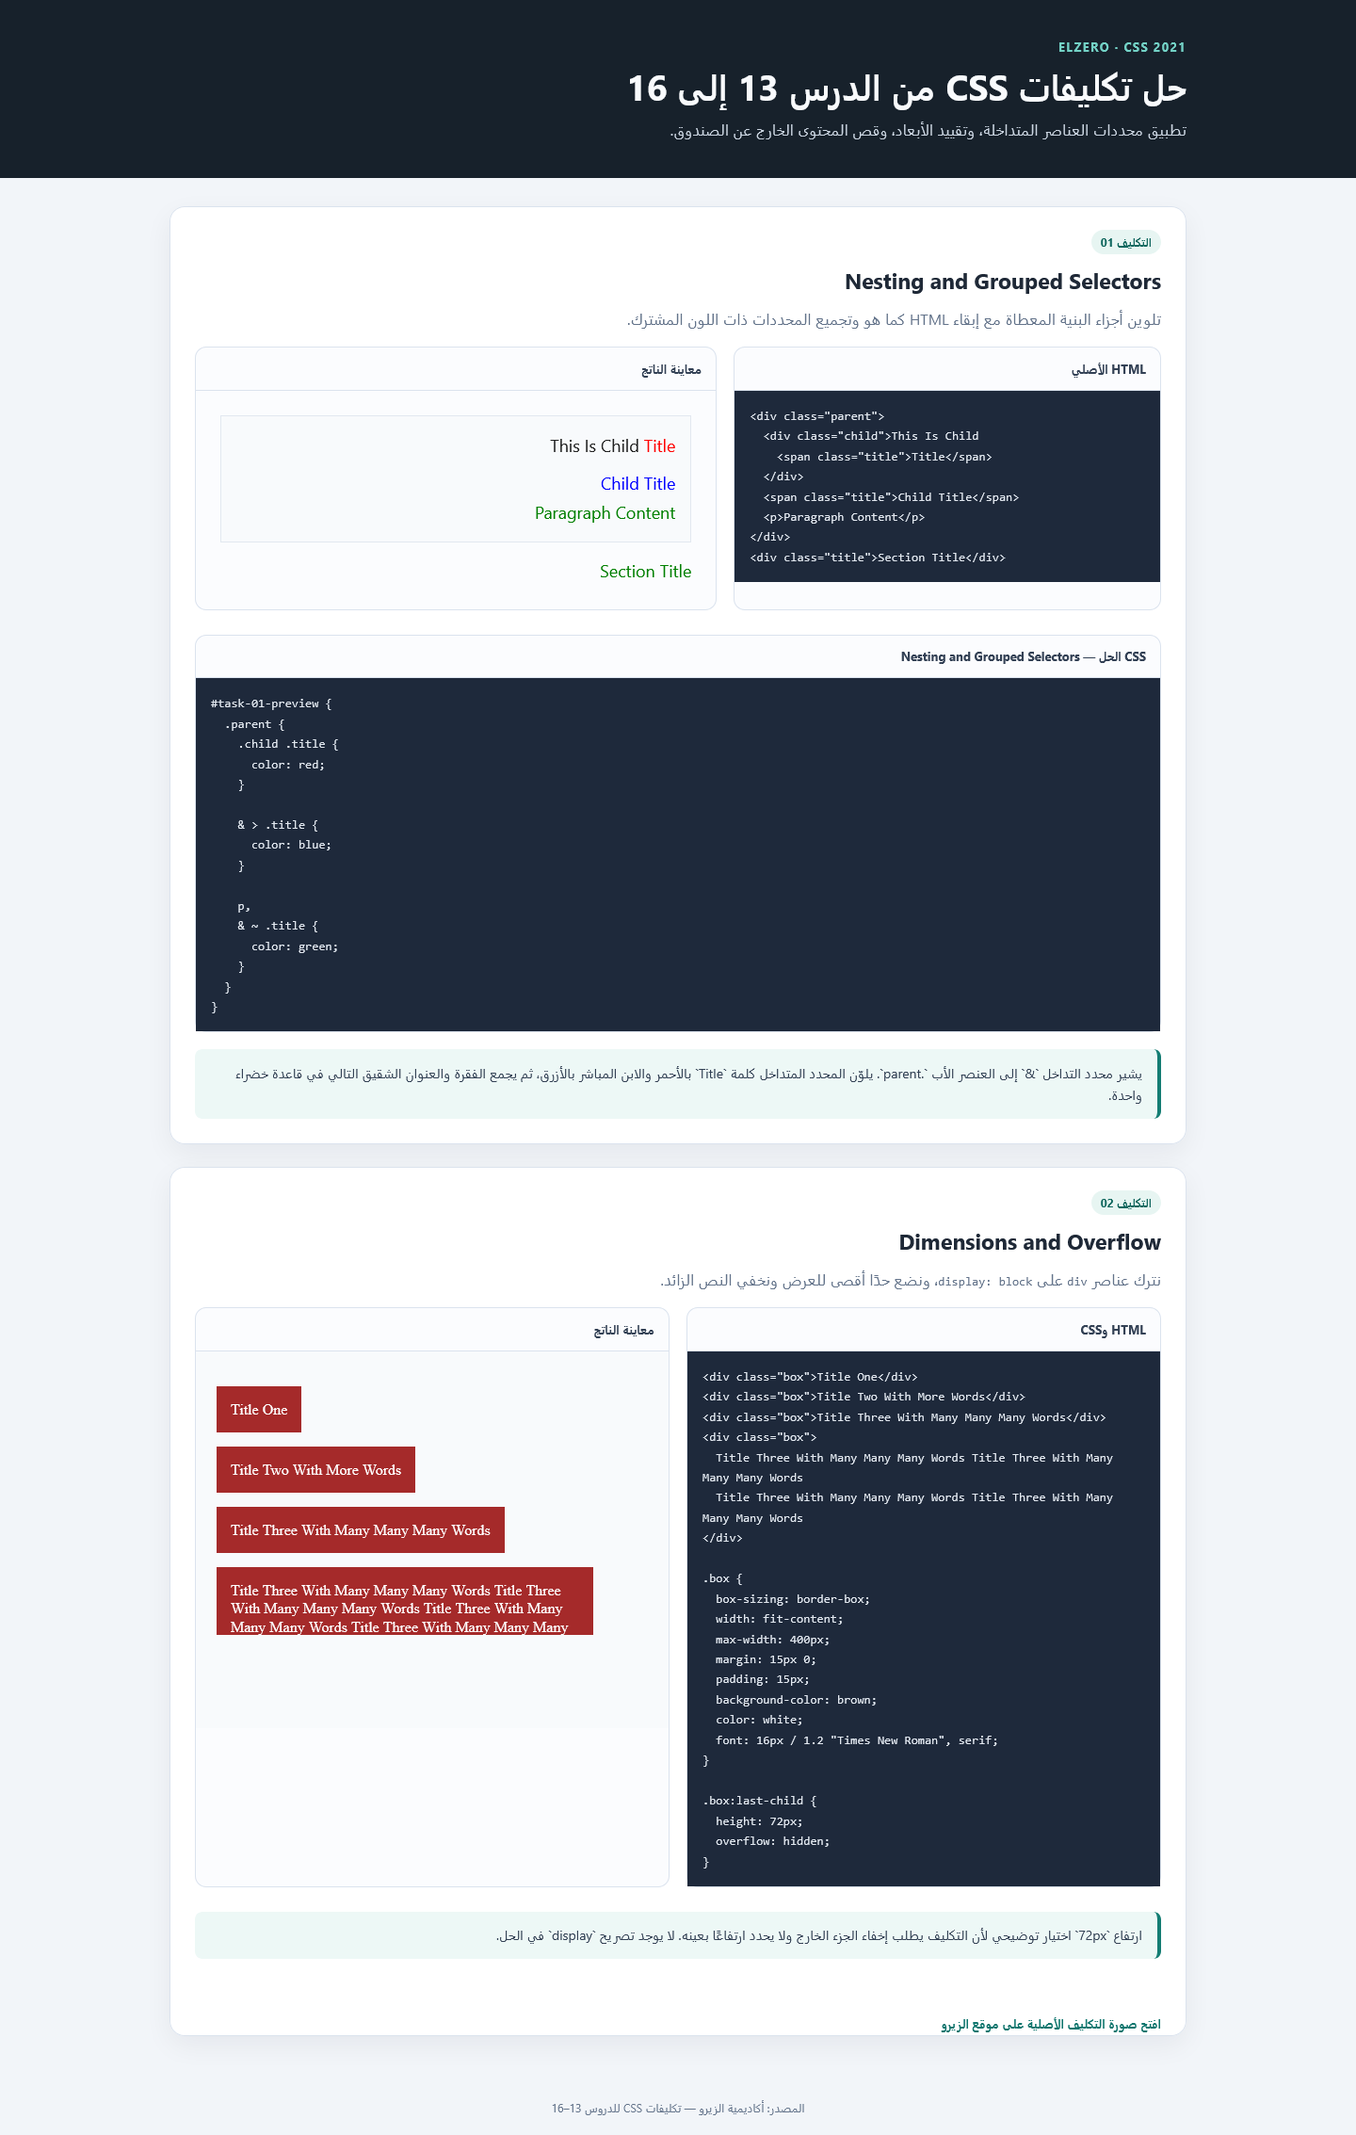
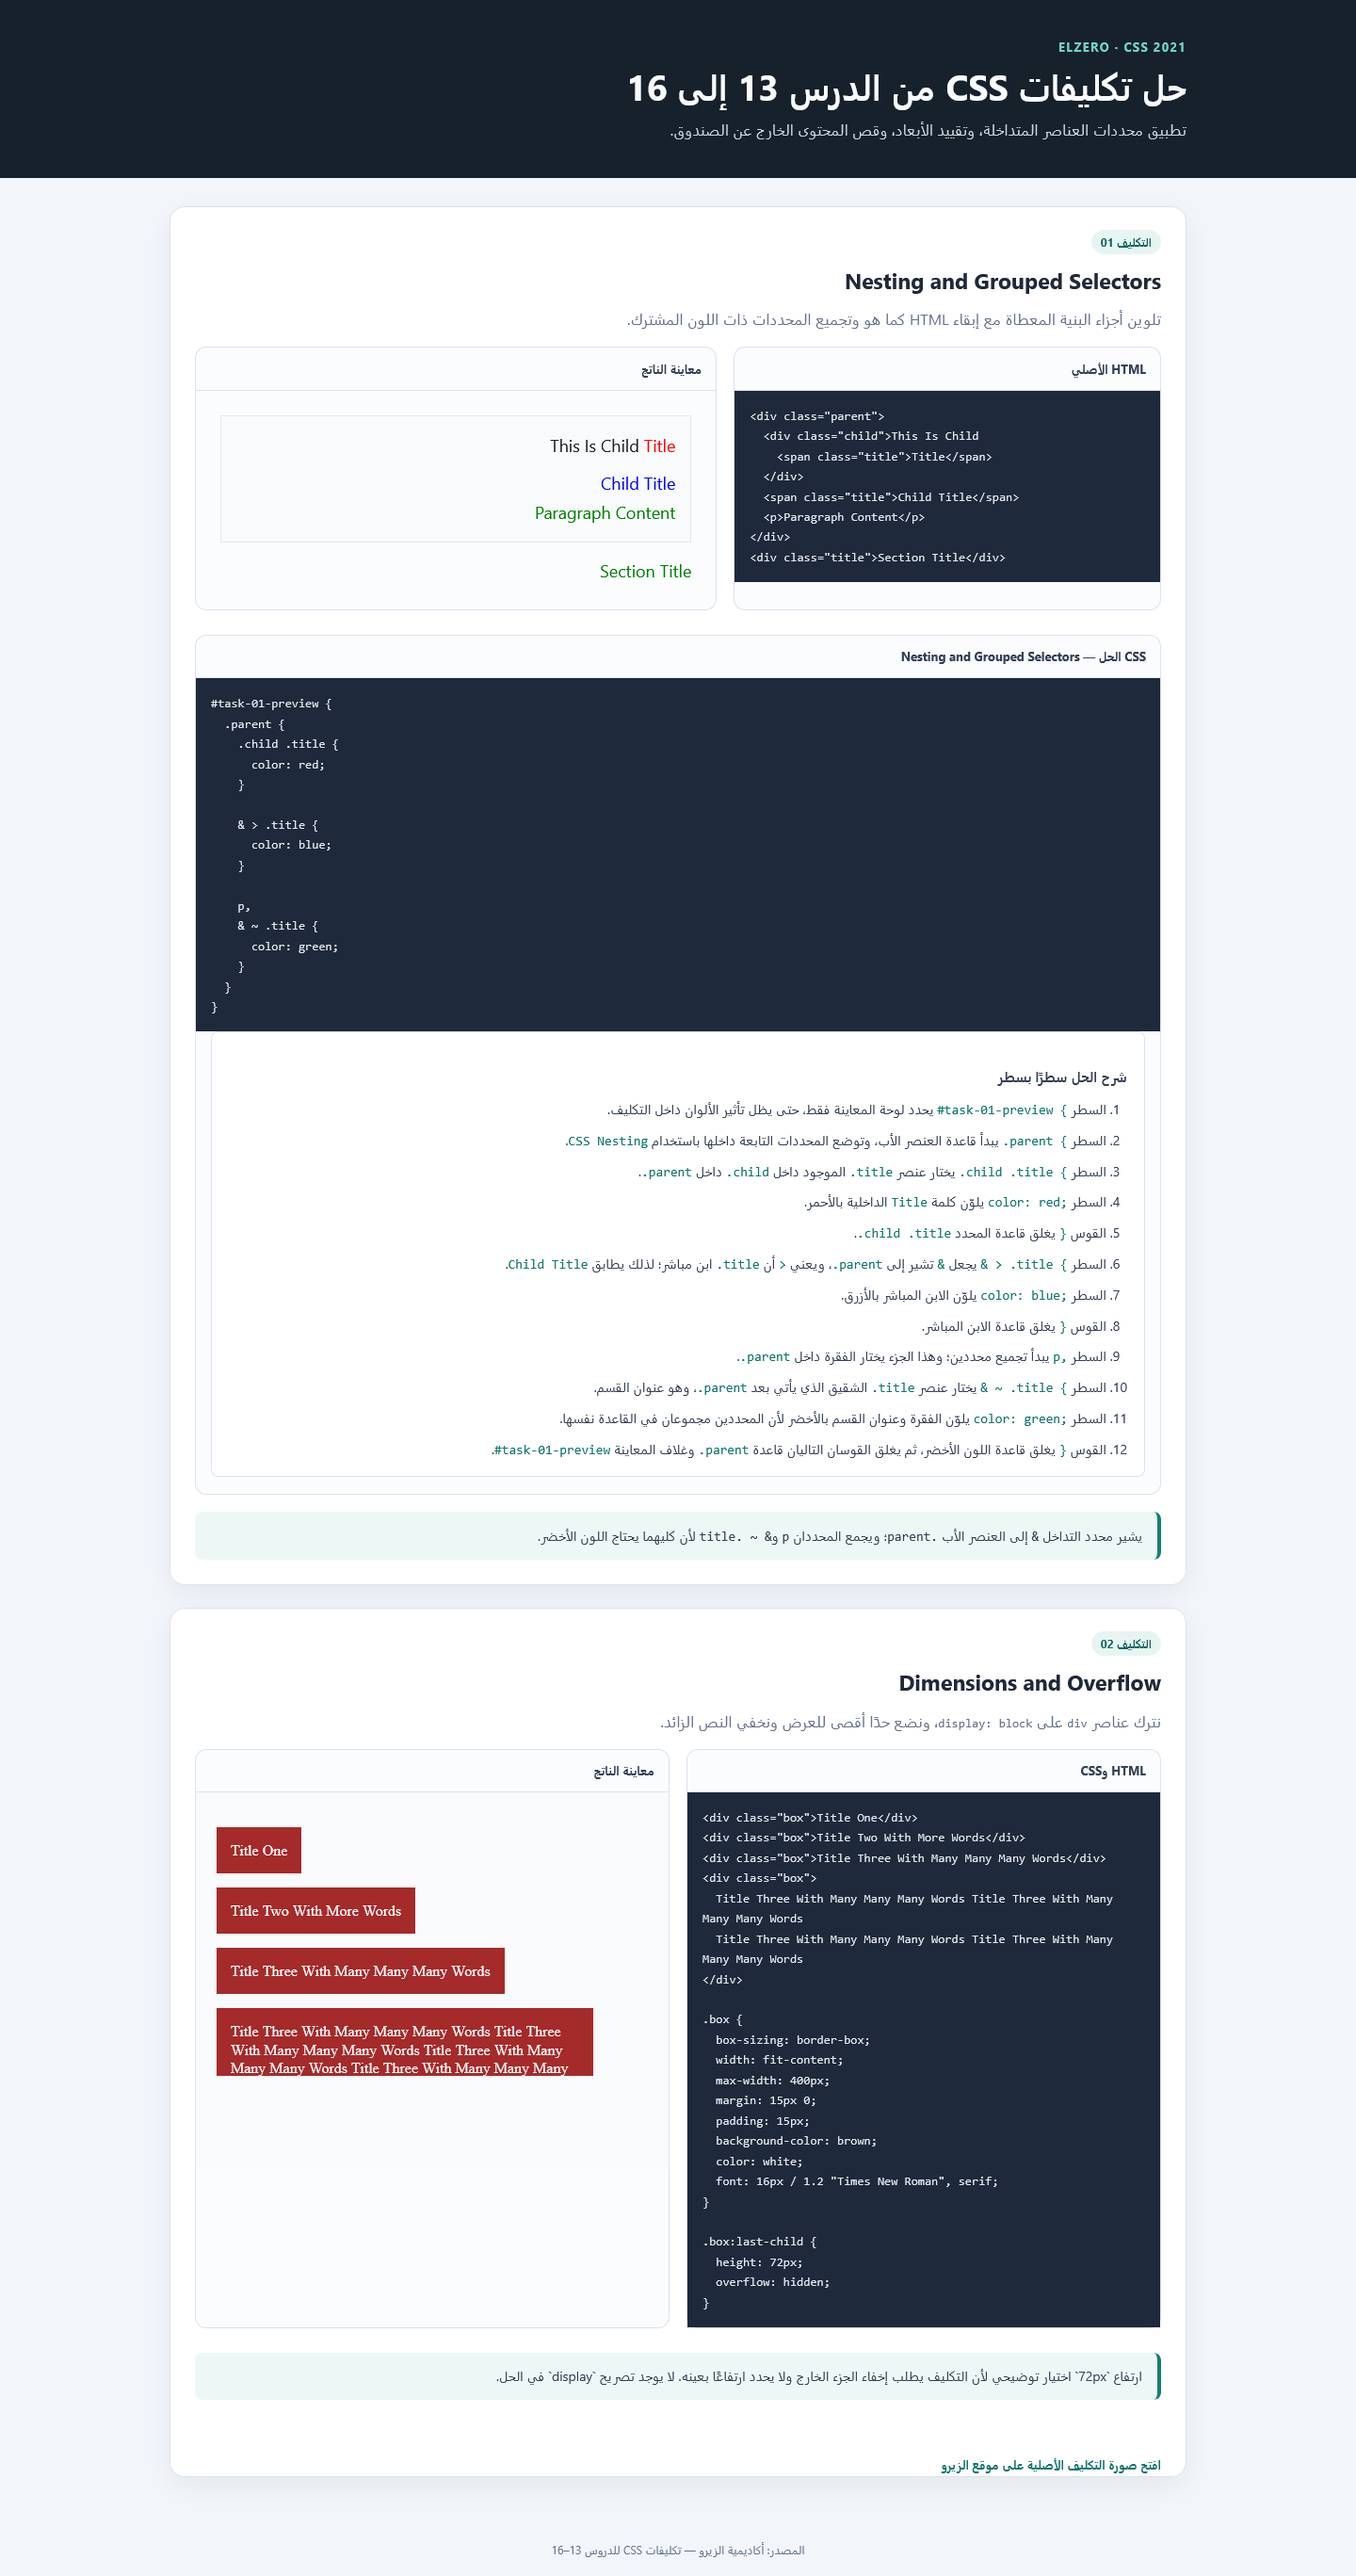
Explain the CSS nesting solution line by line

diff --git a/main_obsidian/vibe_coding/Elzero Frontend/CSS/04 - CSS Nesting, Dimensions, and Overflow/CSS Nesting Dimensions Overflow Assignments 13-16.html b/main_obsidian/vibe_coding/Elzero Frontend/CSS/04 - CSS Nesting, Dimensions, and Overflow/CSS Nesting Dimensions Overflow Assignments 13-16.html
@@ -233,6 +233,38 @@
       margin: 0 26px 18px;
     }
 
+    .solution-explanation {
+      margin: 0 16px 18px;
+      padding: 14px 18px 8px;
+      border: 1px solid var(--line);
+      border-radius: 8px;
+      background: #fff;
+      color: #334155;
+      font-size: 14px;
+    }
+
+    .solution-explanation h4 {
+      margin-bottom: 10px;
+      font-size: 15px;
+    }
+
+    .solution-explanation ol {
+      margin: 0;
+      padding-right: 22px;
+      padding-left: 0;
+    }
+
+    .solution-explanation li {
+      margin-bottom: 8px;
+    }
+
+    .solution-explanation code {
+      color: #0f766e;
+      direction: ltr;
+      font-family: Consolas, "Courier New", monospace;
+      unicode-bidi: isolate;
+    }
+
     .source-link {
       display: inline-block;
       margin-top: 10px;
@@ -278,6 +310,13 @@
       .solution-panel {
         margin-right: 18px;
         margin-left: 18px;
+      }
+
+      .solution-explanation {
+        margin-right: 10px;
+        margin-left: 10px;
+        padding-right: 12px;
+        padding-left: 12px;
       }
     }
   </style>
@@ -338,8 +377,25 @@
     }
   }
 }</pre>
+        <div class="solution-explanation">
+          <h4>شرح الحل سطرًا بسطر</h4>
+          <ol>
+            <li>السطر <code>#task-01-preview {</code> يحدد لوحة المعاينة فقط، حتى يظل تأثير الألوان داخل التكليف.</li>
+            <li>السطر <code>.parent {</code> يبدأ قاعدة العنصر الأب، وتوضع المحددات التابعة داخلها باستخدام <code>CSS Nesting</code>.</li>
+            <li>السطر <code>.child .title {</code> يختار عنصر <code>.title</code> الموجود داخل <code>.child</code> داخل <code>.parent</code>.</li>
+            <li>السطر <code>color: red;</code> يلوّن كلمة <code>Title</code> الداخلية بالأحمر.</li>
+            <li>القوس <code>}</code> يغلق قاعدة المحدد <code>.child .title</code>.</li>
+            <li>السطر <code>&amp; &gt; .title {</code> يجعل <code>&amp;</code> تشير إلى <code>.parent</code>، ويعني <code>&gt;</code> أن <code>.title</code> ابن مباشر؛ لذلك يطابق <code>Child Title</code>.</li>
+            <li>السطر <code>color: blue;</code> يلوّن الابن المباشر بالأزرق.</li>
+            <li>القوس <code>}</code> يغلق قاعدة الابن المباشر.</li>
+            <li>السطر <code>p,</code> يبدأ تجميع محددين؛ وهذا الجزء يختار الفقرة داخل <code>.parent</code>.</li>
+            <li>السطر <code>&amp; ~ .title {</code> يختار عنصر <code>.title</code> الشقيق الذي يأتي بعد <code>.parent</code>، وهو عنوان القسم.</li>
+            <li>السطر <code>color: green;</code> يلوّن الفقرة وعنوان القسم بالأخضر لأن المحددين مجموعان في القاعدة نفسها.</li>
+            <li>القوس <code>}</code> يغلق قاعدة اللون الأخضر، ثم يغلق القوسان التاليان قاعدة <code>.parent</code> وغلاف المعاينة <code>#task-01-preview</code>.</li>
+          </ol>
+        </div>
       </div>
-      <p class="note">يشير محدد التداخل `&amp;` إلى العنصر الأب `.parent`. يلوّن المحدد المتداخل كلمة `Title` بالأحمر والابن المباشر بالأزرق، ثم يجمع الفقرة والعنوان الشقيق التالي في قاعدة خضراء واحدة.</p>
+      <p class="note">يشير محدد التداخل <code>&amp;</code> إلى العنصر الأب <code>.parent</code>؛ ويجمع المحددان <code>p</code> و<code>&amp; ~ .title</code> لأن كليهما يحتاج اللون الأخضر.</p>
     </section>
 
     <section class="task-card" id="task-02">

diff --git a/main_obsidian/vibe_coding/Elzero Frontend/CSS/04 - CSS Nesting, Dimensions, and Overflow/01 - CSS Nesting and Grouped Selectors.md b/main_obsidian/vibe_coding/Elzero Frontend/CSS/04 - CSS Nesting, Dimensions, and Overflow/01 - CSS Nesting and Grouped Selectors.md
@@ -46,7 +46,21 @@ aliases:
 > }
 > ```
 >
-> استخدمت **CSS Nesting** (كتابة المحددات التابعة داخل قاعدة العنصر الأب) لتجميع قواعد `.parent` معًا. يختار `.child .title` كلمة `Title` داخل `.child`، ويختار `& > .title` الابن المباشر؛ ويشير `&` إلى المحدد الأب `.parent`. جمعت `p` و`& ~ .title` في قاعدة واحدة لأن كليهما يحتاج اللون الأخضر؛ والأخير يختار عنوان القسم الذي يأتي بعد `.parent` على المستوى نفسه. لم تتغير أي عقدة في HTML.
+> **شرح الحل سطرًا بسطر**
+>
+> 1. السطر `.parent {` يبدأ قاعدة العنصر الأب؛ ووضع المحددات التابعة داخلها هو أسلوب **CSS Nesting** (التداخل داخل قاعدة الأب).
+> 2. السطر `.child .title {` يختار عنصر `.title` الموجود داخل `.child`، وكلاهما داخل `.parent`.
+> 3. السطر `color: red;` يلوّن كلمة `Title` الداخلية بالأحمر.
+> 4. القوس `}` يغلق قاعدة `.child .title`.
+> 5. السطر `& > .title {` يستخدم `&` (محدد التداخل الذي يشير إلى `.parent`) مع `>` (رمز الابن المباشر)، فيختار عنصر `.title` الذي يعرض `Child Title`.
+> 6. السطر `color: blue;` يلوّن الابن المباشر بالأزرق.
+> 7. القوس `}` يغلق قاعدة الابن المباشر.
+> 8. السطر `p,` يبدأ **Grouped Selectors** (تجميع المحددات)، ويستهدف الفقرة داخل `.parent`.
+> 9. السطر `& ~ .title {` يضيف المحدد الثاني؛ ويستهدف `~` عنوان القسم الذي يأتي شقيقًا بعد `.parent` على المستوى نفسه.
+> 10. السطر `color: green;` يلوّن المحددين في المجموعة نفسها بالأخضر.
+> 11. القوس `}` يغلق قاعدة اللون الأخضر، والقوس الأخير يغلق قاعدة `.parent`.
+>
+> لم تتغير أي عقدة في HTML.
 >
 > **معاينة الناتج**
 >
